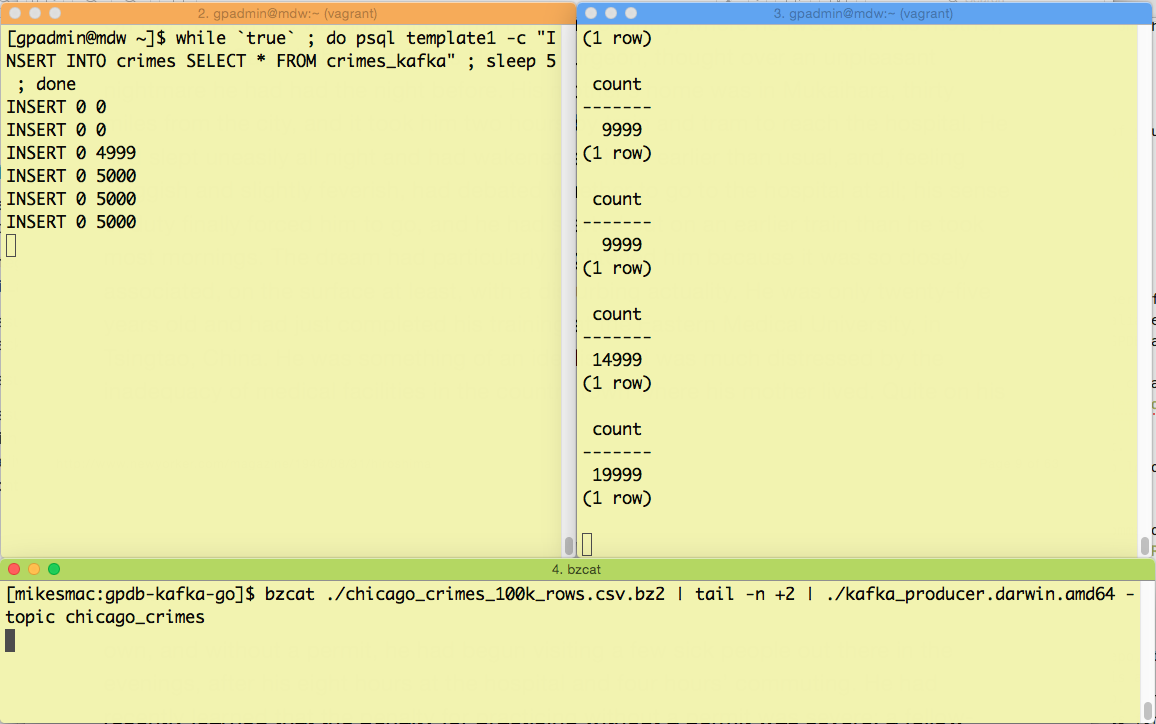
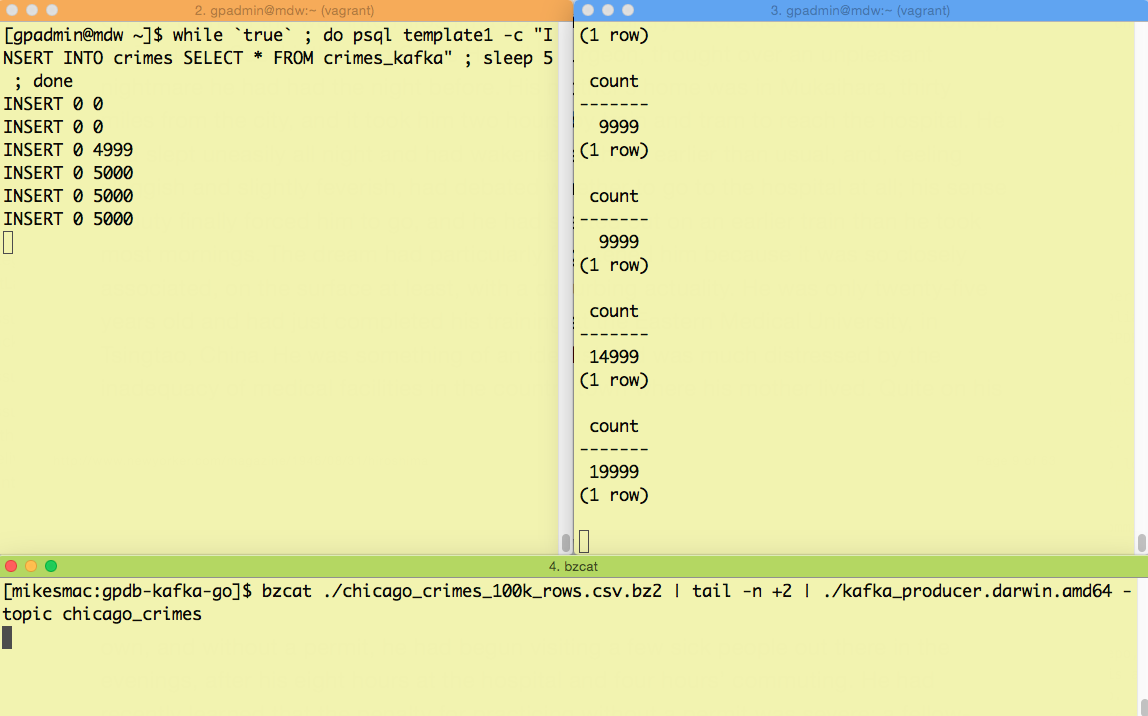
Final annotations

diff --git a/README.md b/README.md
@@ -16,7 +16,7 @@ consumer will utilize GPDB _external web tables_, since they are able to run an 
 in parallel, to ingest data.
 
 ## Why Go?
-* I am trying to learn Go.
+* I am trying to learn Go and Kafka (maybe this is also a caveat).
 * Go builds a single, statically linked binary, which has all its dependencies built in, which makes it simpler to install than, say, a Python or Java program.
 
 ## What's Required to Get This Running?
@@ -43,6 +43,10 @@ This example will involve creating a single table, _crimes_, within GPDB and loa
 1. Back at the terminal on your laptop, grab the [sample data file](https://s3.amazonaws.com/goddard.bds.datasets/chicago_crimes_100k_rows.csv.bz2) (MD5: 6f05a6ea98576eff13ff16b0da9559ec).  This contains 100,000 lines, plus a header (the first line).
 1. You'll need a way to produce data into the topic you created earlier, using this data set.  Within this repo, there is a [source file](./kafka_producer.go), also in Go, that you can compile and run.  If you are using OS X, there is a [pre-compiled binary](./kafka_producer.darwin.amd64) you can use.  That is the one we'll use in the next step.  This program just reads its stdin and produces to the given Kafka topic.  It loads a batch of 5000 rows, then waits for five seconds before sending the next batch.
 1. Finally, kick off the load of the data file into the Kafka topic: `bzcat ./chicago_crimes_100k_rows.csv.bz2 | tail -n +2 | ./kafka_producer.darwin.amd64 -topic chicago_crimes` (the `tail -n +2` just skips the header line).
+
+These images show the action going on within each of the three terminal sessions during this data load process
+The first shows the situation shortly after the load into Kafka begins, and the second shows all 100k rows loaded
+into the GPDB table.
 
 ![Initial view of data loading process](./Kafka_Load_01.png)
 
